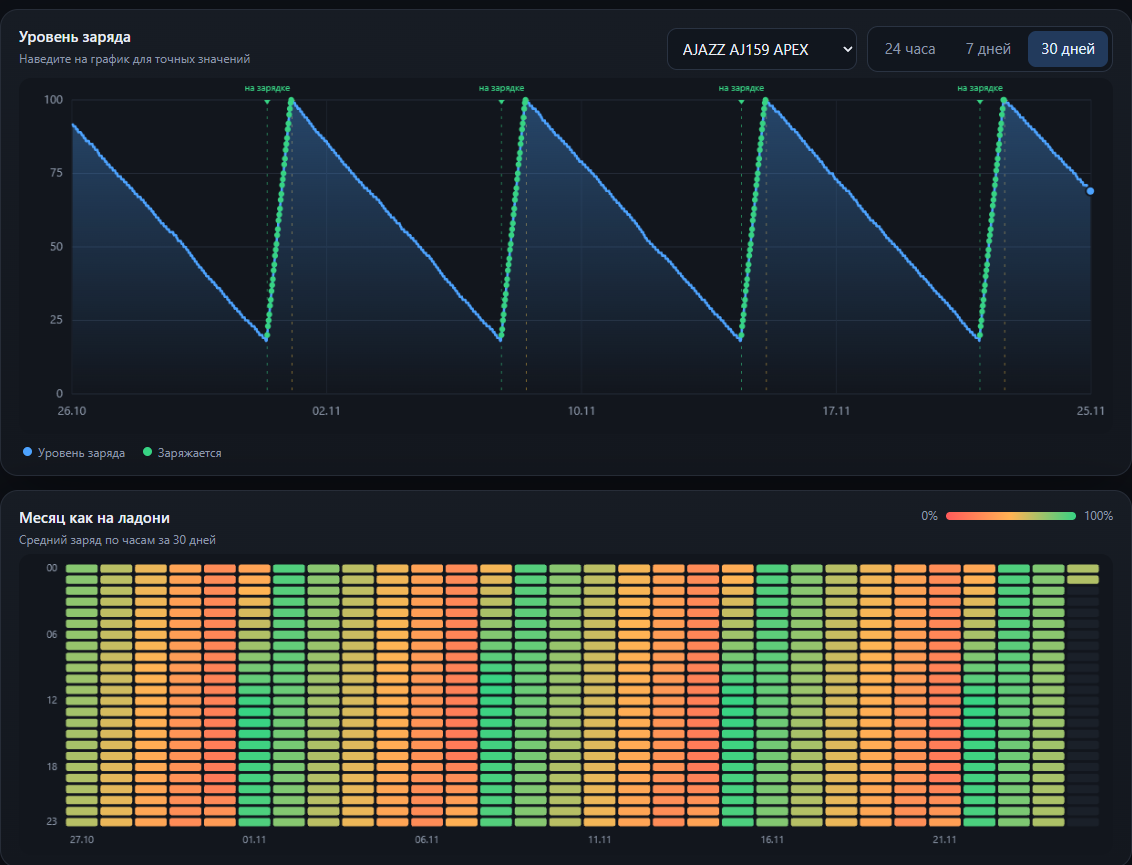
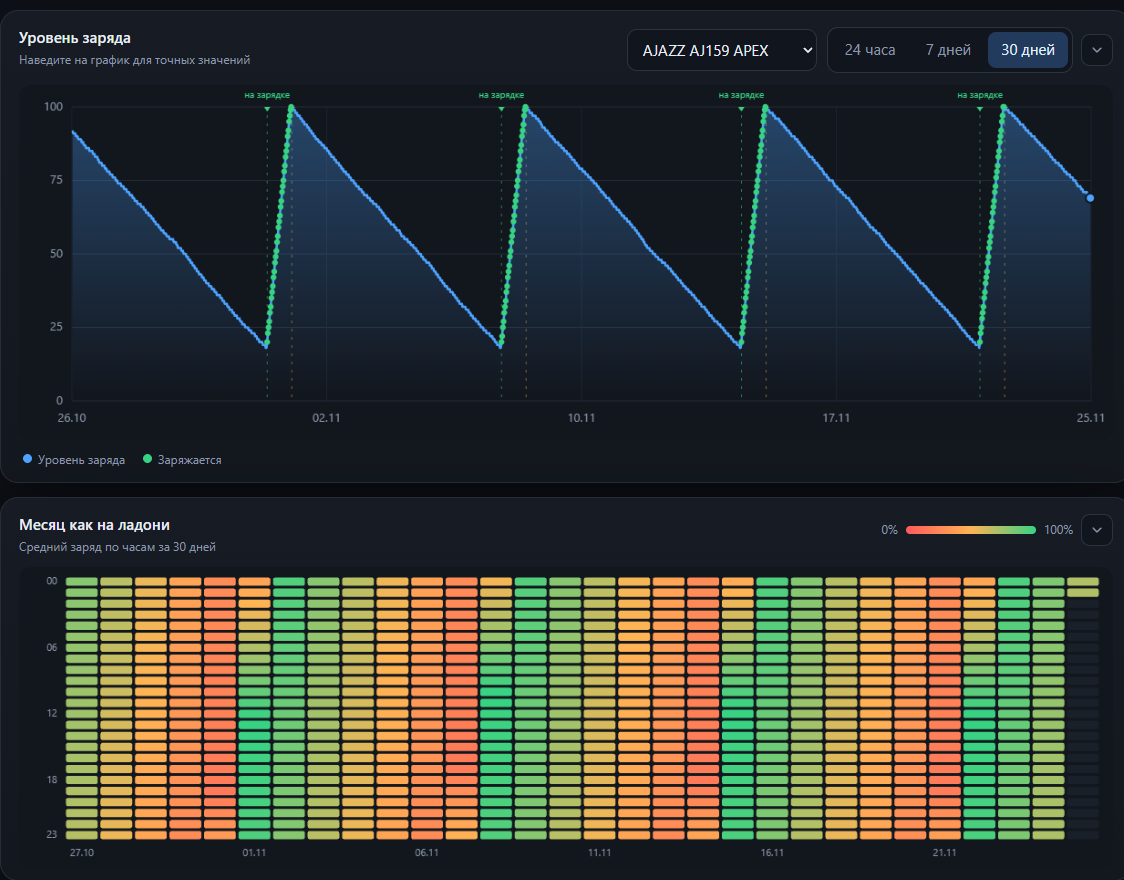
feat(history): collapsible dashboard panels, fix charging pulse
- collapse Battery level and Month at a glance with a chevron
- state kept in localStorage, animated height, reduced-motion aware
- fix pulse timer: the nested with_app never ran, so the bolt never faded
- also fix the tray icon removal timer, which had the same nested borrow
- refresh the dashboard image with the new controls

diff --git a/src/history.rs b/src/history.rs
@@ -212,7 +212,7 @@ impl History {
     pub fn report_html(&self) -> String {
         let t = i18n::history();
         let labels = format!(
-            r#"{{"title":"{}","device":"{}","range":"{}","r24":"{}","r7":"{}","r30":"{}","latest":"{}","min":"{}","max":"{}","change":"{}","samples":"{}","rate":"{}","eta":"{}","no_data":"{}","charging":"{}","on_battery":"{}","chart_title":"{}","chart_sub":"{}","insufficient":"{}","generated":"{}","theme":"{}","light":"{}","dark":"{}","heatmap_title":"{}","heatmap_sub":"{}","event_charge":"{}","event_unplug":"{}"}}"#,
+            r#"{{"title":"{}","device":"{}","range":"{}","r24":"{}","r7":"{}","r30":"{}","latest":"{}","min":"{}","max":"{}","change":"{}","samples":"{}","rate":"{}","eta":"{}","no_data":"{}","charging":"{}","on_battery":"{}","chart_title":"{}","chart_sub":"{}","insufficient":"{}","generated":"{}","theme":"{}","light":"{}","dark":"{}","heatmap_title":"{}","heatmap_sub":"{}","event_charge":"{}","event_unplug":"{}","collapse":"{}","expand":"{}"}}"#,
             json(t.title),
             json(t.device),
             json(t.range),
@@ -240,6 +240,8 @@ impl History {
             json(t.heatmap_sub),
             json(t.event_charge),
             json(t.event_unplug),
+            json(t.collapse),
+            json(t.expand),
         );
         TEMPLATE
             .replace("__DATA__", &self.samples_json())
@@ -378,6 +380,10 @@ mod tests {
         assert!(html.contains("heatmap_title"));
         assert!(html.contains("event_charge"));
         assert!(html.contains("prefers-reduced-motion"));
+        assert!(html.contains(r#"id="chart_body""#));
+        assert!(html.contains(r#"id="hm_body""#));
+        assert!(html.contains(r#"class="collapse""#));
+        assert!(html.contains("bh-collapsed"));
     }
 
     #[test]
@@ -447,6 +453,12 @@ h1{font-size:25px;margin:0;letter-spacing:.2px}
 .panel-title{font-size:15px;font-weight:600}
 .panel-sub{color:var(--muted);font-size:12px;margin-top:2px}
 .toolbar{display:flex;align-items:center;gap:10px;flex-wrap:wrap;justify-content:flex-end}
+.panel-tools{display:flex;align-items:center;gap:8px;flex-wrap:wrap;justify-content:flex-end}
+.collapse{width:32px;height:32px;padding:0;border:1px solid var(--input-border);border-radius:9px;background:var(--input);color:var(--muted);display:grid;place-items:center;cursor:pointer;transition:color .18s,border-color .18s}
+.collapse:hover{color:var(--text);border-color:var(--line-strong)}
+.collapse svg{width:16px;height:16px;transition:transform .25s ease}
+.collapse.collapsed svg{transform:rotate(-90deg)}
+.panel-body{overflow:hidden;transition:max-height .3s ease,opacity .24s ease}
 select{background:var(--input);border:1px solid var(--input-border);color:var(--text);padding:9px 11px;border-radius:10px;font:inherit;min-width:190px;max-width:260px}
 .range{display:flex;gap:4px;background:var(--input);border:1px solid var(--input-border);padding:4px;border-radius:11px}
 .range button{background:transparent;border:0;color:var(--muted);padding:7px 13px;border-radius:8px;font:inherit;cursor:pointer;white-space:nowrap}
@@ -469,6 +481,7 @@ canvas{width:100%;height:auto;display:block;border-radius:12px}
 footer{display:flex;justify-content:space-between;gap:12px;color:var(--muted);font-size:12px;margin-top:14px;padding:0 4px}
 @media(max-width:900px){.hero{grid-template-columns:1fr}.gauge{width:128px;height:128px}.gauge b{font-size:36px}.metrics{grid-template-columns:repeat(3,1fr)}.panel-head{align-items:stretch;flex-direction:column}.toolbar{justify-content:flex-start}}
 @media(max-width:520px){.wrap{padding:18px 14px 30px}.metrics{grid-template-columns:repeat(2,1fr)}header{align-items:flex-start}.meta #generated{display:none}h1{font-size:21px}.range button{padding:7px 10px}}
+@media(prefers-reduced-motion:reduce){.panel-body,.collapse svg{transition:none}}
 </style></head>
 <body><div class="wrap">
 <header>
@@ -499,19 +512,21 @@ footer{display:flex;justify-content:space-between;gap:12px;color:var(--muted);fo
 <section class="panel">
   <div class="panel-head">
     <div><div class="panel-title" id="chart_title"></div><div class="panel-sub" id="chart_sub"></div></div>
-    <div class="toolbar"><select id="device"></select>
+    <div class="panel-tools"><div class="toolbar"><select id="device"></select>
       <div class="range" id="ranges"><button data-r="86400" class="active" id="r24"></button><button data-r="604800" id="r7"></button><button data-r="2592000" id="r30"></button></div>
-    </div>
+    </div><button type="button" class="collapse" data-panel="chart" aria-controls="chart_body" aria-expanded="true"><svg viewBox="0 0 24 24" fill="none" stroke="currentColor" stroke-width="2" stroke-linecap="round" stroke-linejoin="round" aria-hidden="true"><path d="M6 9l6 6 6-6"/></svg></button></div>
   </div>
+  <div class="panel-body" id="chart_body">
   <div class="chart-wrap"><canvas id="chart" width="1200" height="390"></canvas><div class="empty" id="empty" hidden><div class="ico">🔋</div><div id="empty_text"></div></div></div>
   <div class="legend"><span><i class="dot"></i><span id="legend_level"></span></span><span><i class="dot green"></i><span id="legend_charge"></span></span></div>
+  </div>
 </section>
 <section class="panel hm-panel">
   <div class="panel-head">
     <div><div class="panel-title" id="hm_title"></div><div class="panel-sub" id="hm_sub"></div></div>
-    <div class="hm-legend"><span>0%</span><i class="hm-scale"></i><span>100%</span></div>
+    <div class="panel-tools"><div class="hm-legend"><span>0%</span><i class="hm-scale"></i><span>100%</span></div><button type="button" class="collapse" data-panel="hm" aria-controls="hm_body" aria-expanded="true"><svg viewBox="0 0 24 24" fill="none" stroke="currentColor" stroke-width="2" stroke-linecap="round" stroke-linejoin="round" aria-hidden="true"><path d="M6 9l6 6 6-6"/></svg></button></div>
   </div>
-  <div class="hm-wrap"><canvas id="heatmap" width="1200" height="330"></canvas></div>
+  <div class="panel-body" id="hm_body"><div class="hm-wrap"><canvas id="heatmap" width="1200" height="330"></canvas></div></div>
 </section>
 <footer><span id="foot_left"></span><span id="foot_right"></span></footer>
 </div>
@@ -538,6 +553,36 @@ function applyTheme(mode,persist){
   if(persist){try{localStorage.setItem('bh-theme',mode)}catch(e){}try{document.cookie='bh-theme='+mode+'; path=/; max-age=31536000; SameSite=Lax'}catch(e){}}
   draw();
 }
+const PANELS_KEY='bh-collapsed';
+function loadCollapsed(){
+  try{const v=JSON.parse(localStorage.getItem(PANELS_KEY)||'[]');return new Set(Array.isArray(v)?v.filter(x=>x==='chart'||x==='hm'):[])}catch(e){return new Set()}
+}
+function saveCollapsed(set){try{localStorage.setItem(PANELS_KEY,JSON.stringify([...set]))}catch(e){}}
+function applyPanel(name,on,animate){
+  const btn=document.querySelector('.collapse[data-panel="'+name+'"]'), body=$(name+'_body');
+  if(!btn||!body) return;
+  const label=on?L.expand:L.collapse;
+  btn.classList.toggle('collapsed',on);
+  btn.setAttribute('aria-expanded',on?'false':'true');
+  btn.title=label; btn.setAttribute('aria-label',label);
+  if(!animate||matchMedia('(prefers-reduced-motion: reduce)').matches){
+    body.style.maxHeight=on?'0px':'none';
+    body.style.opacity=on?'0':'1';
+    return;
+  }
+  const h=body.scrollHeight;
+  body.style.opacity=on?'0':'1';
+  if(on){
+    body.style.maxHeight=h+'px';
+    requestAnimationFrame(()=>{body.style.maxHeight='0px'});
+  }else{
+    body.style.maxHeight='0px';
+    requestAnimationFrame(()=>{body.style.maxHeight=h+'px'});
+    body.addEventListener('transitionend',()=>{
+      if(btn.getAttribute('aria-expanded')==='true') body.style.maxHeight='none';
+    },{once:true});
+  }
+}
 function setup(){
   $('sub').textContent=L.title; $('current_label').textContent=L.latest; $('r24').textContent=L.r24; $('r7').textContent=L.r7; $('r30').textContent=L.r30;
   $('l_min').textContent=L.min; $('l_max').textContent=L.max; $('l_change').textContent=L.change;
@@ -560,6 +605,15 @@ function setup(){
   });
   c.addEventListener('mousemove',e=>{if(!geom){return}const r=c.getBoundingClientRect(),x=(e.clientX-r.left)*c.width/r.width;let best=-1,bd=28;pts.forEach((p,i)=>{const d=Math.abs(geom.X(p.t)-x);if(d<bd){bd=d;best=i}});if(best!==hover){hover=best>=0?best:null;draw();}});
   c.addEventListener('mouseleave',()=>{if(hover!==null){hover=null;draw();}});
+  const saved=loadCollapsed();
+  for(const p of ['chart','hm']) applyPanel(p,saved.has(p),false);
+  document.querySelectorAll('.collapse').forEach(b=>b.onclick=()=>{
+    const on=b.getAttribute('aria-expanded')==='true';
+    applyPanel(b.dataset.panel,on,true);
+    const set=loadCollapsed();
+    if(on) set.add(b.dataset.panel); else set.delete(b.dataset.panel);
+    saveCollapsed(set);
+  });
   applyTheme(document.documentElement.dataset.theme==='light'?'light':'dark',false);
   poll();
   setInterval(poll,2000);

diff --git a/src/bin/taskbar.rs b/src/bin/taskbar.rs
@@ -2173,18 +2173,15 @@ extern "system" fn main_proc(hwnd: HWND, msg: u32, wp: WPARAM, lp: LPARAM) -> LR
                     }
                     TIMER_NOTIFY => {
                         let _ = KillTimer(Some(hwnd), TIMER_NOTIFY);
-                        with_app(|a| {
-                            let d = a.tray_data(NOTIFY_UID);
-                            let _ = Shell_NotifyIconW(NIM_DELETE, &d);
-                        });
+                        let d = a.tray_data(NOTIFY_UID);
+                        let _ = Shell_NotifyIconW(NIM_DELETE, &d);
                     }
                     TIMER_PULSE => {
-                        with_app(|a| {
-                            if a.pulsing {
-                                a.pulse_dim = !a.pulse_dim;
-                                a.paint();
-                            }
-                        });
+                        // No nested with_app here: the outer one already holds the App.
+                        if a.pulsing {
+                            a.pulse_dim = !a.pulse_dim;
+                            a.paint();
+                        }
                     }
                     TIMER_BTWATCH => {
                         // Bluetooth connect / disconnect does not add or remove device nodes, so

diff --git a/src/i18n.rs b/src/i18n.rs
@@ -317,6 +317,8 @@ pub struct HistoryTexts {
     pub heatmap_sub: &'static str,
     pub event_charge: &'static str,
     pub event_unplug: &'static str,
+    pub collapse: &'static str,
+    pub expand: &'static str,
 }
 
 pub static HISTORY_EN: HistoryTexts = HistoryTexts {
@@ -347,6 +349,8 @@ pub static HISTORY_EN: HistoryTexts = HistoryTexts {
     heatmap_sub: "Average charge by hour, last 30 days",
     event_charge: "on power",
     event_unplug: "unplugged",
+    collapse: "Collapse",
+    expand: "Expand",
 };
 
 pub static HISTORY_RU: HistoryTexts = HistoryTexts {
@@ -377,6 +381,8 @@ pub static HISTORY_RU: HistoryTexts = HistoryTexts {
     heatmap_sub: "Средний заряд по часам за 30 дней",
     event_charge: "на зарядке",
     event_unplug: "снято",
+    collapse: "Свернуть",
+    expand: "Развернуть",
 };
 
 pub fn history() -> &'static HistoryTexts {

diff --git a/README.md b/README.md
@@ -64,6 +64,7 @@
 - **Месяц как на ладони** — heatmap 24 часа × 30 дней: сразу видно, в какие часы садится.
 - **Метки событий** — на графике отмечено, когда устройство поставили на зарядку и сняли с неё.
 - **Плавная смена периода** — 24 ч / 7 / 30 дней переключаются без рывка, с короткой анимацией.
+- **Сворачиваемые блоки** — «Уровень заряда» и «Месяц как на ладони» сворачиваются шевроном, состояние запоминается.
 - **Живой прогноз** — «~6 ч» до нуля в подсказке, когда уже есть история.
 - **Уведомления** — низкий заряд, начало зарядки, 100%; галочка «Не беспокоить».
 - **Русский и английский интерфейс** — переключение в меню, выбор сохраняется.
@@ -114,7 +115,7 @@
 </p>
 
 <p align="center">
-  <sub>Heatmap <b>«Месяц как на ладони»</b>: 24 часа × 30 дней, средний заряд по часам. На графике — метки <b>«на зарядке»</b> и <b>«снято»</b>. Демо-данные.</sub>
+  <sub>Heatmap <b>«Месяц как на ладони»</b>: 24 часа × 30 дней, средний заряд по часам. На графике — метки <b>«на зарядке»</b> и <b>«снято»</b>. Оба блока сворачиваются шевроном, выбор запоминается. Демо-данные.</sub>
 </p>
 
 <p align="center">

diff --git a/README-RU.md b/README-RU.md
@@ -35,6 +35,7 @@
 - **Месяц как на ладони** — heatmap 24 часа × 30 дней: видно, в какие часы садится.
 - **Метки событий** — «на зарядке» и «снято» прямо на графике.
 - **Плавная смена периода** — 24 ч / 7 / 30 дней без рывка.
+- **Сворачиваемые блоки** — «Уровень заряда» и «Месяц как на ладони» можно свернуть; выбор запоминается.
 - **Живой прогноз** — «~6 ч» до нуля в подсказке, когда уже есть история.
 - **Уведомления** — низкий заряд, начало зарядки, 100%; режим «Не беспокоить».
 - **Свои иконки** — PNG/ICO вручную, поиск по названию с вырезанием фона, размер 12–32 px.

diff --git a/RELEASE_NOTES.md b/RELEASE_NOTES.md
@@ -18,6 +18,7 @@ Already installed? Use *Check for updates...* in the right-click menu (v1.1 and 
 - **Month at a glance** — a 24 hours × 30 days heatmap in the live dashboard: see at which hours the battery drains.
 - **Charge events on the chart** — dashed markers and labels for *on power* and *unplugged*.
 - **Smooth range switch** — 24 h / 7 / 30 days crossfades instead of jumping, respecting reduced motion.
+- **Collapsible panels** — collapse *Battery level* and *Month at a glance* with the chevron; the choice is remembered.
 - **Light and dark taskbar previews** plus an animated pulse demo in the README; a GitHub social preview image is in `docs/`.
 
 ## New in v1.6.3
